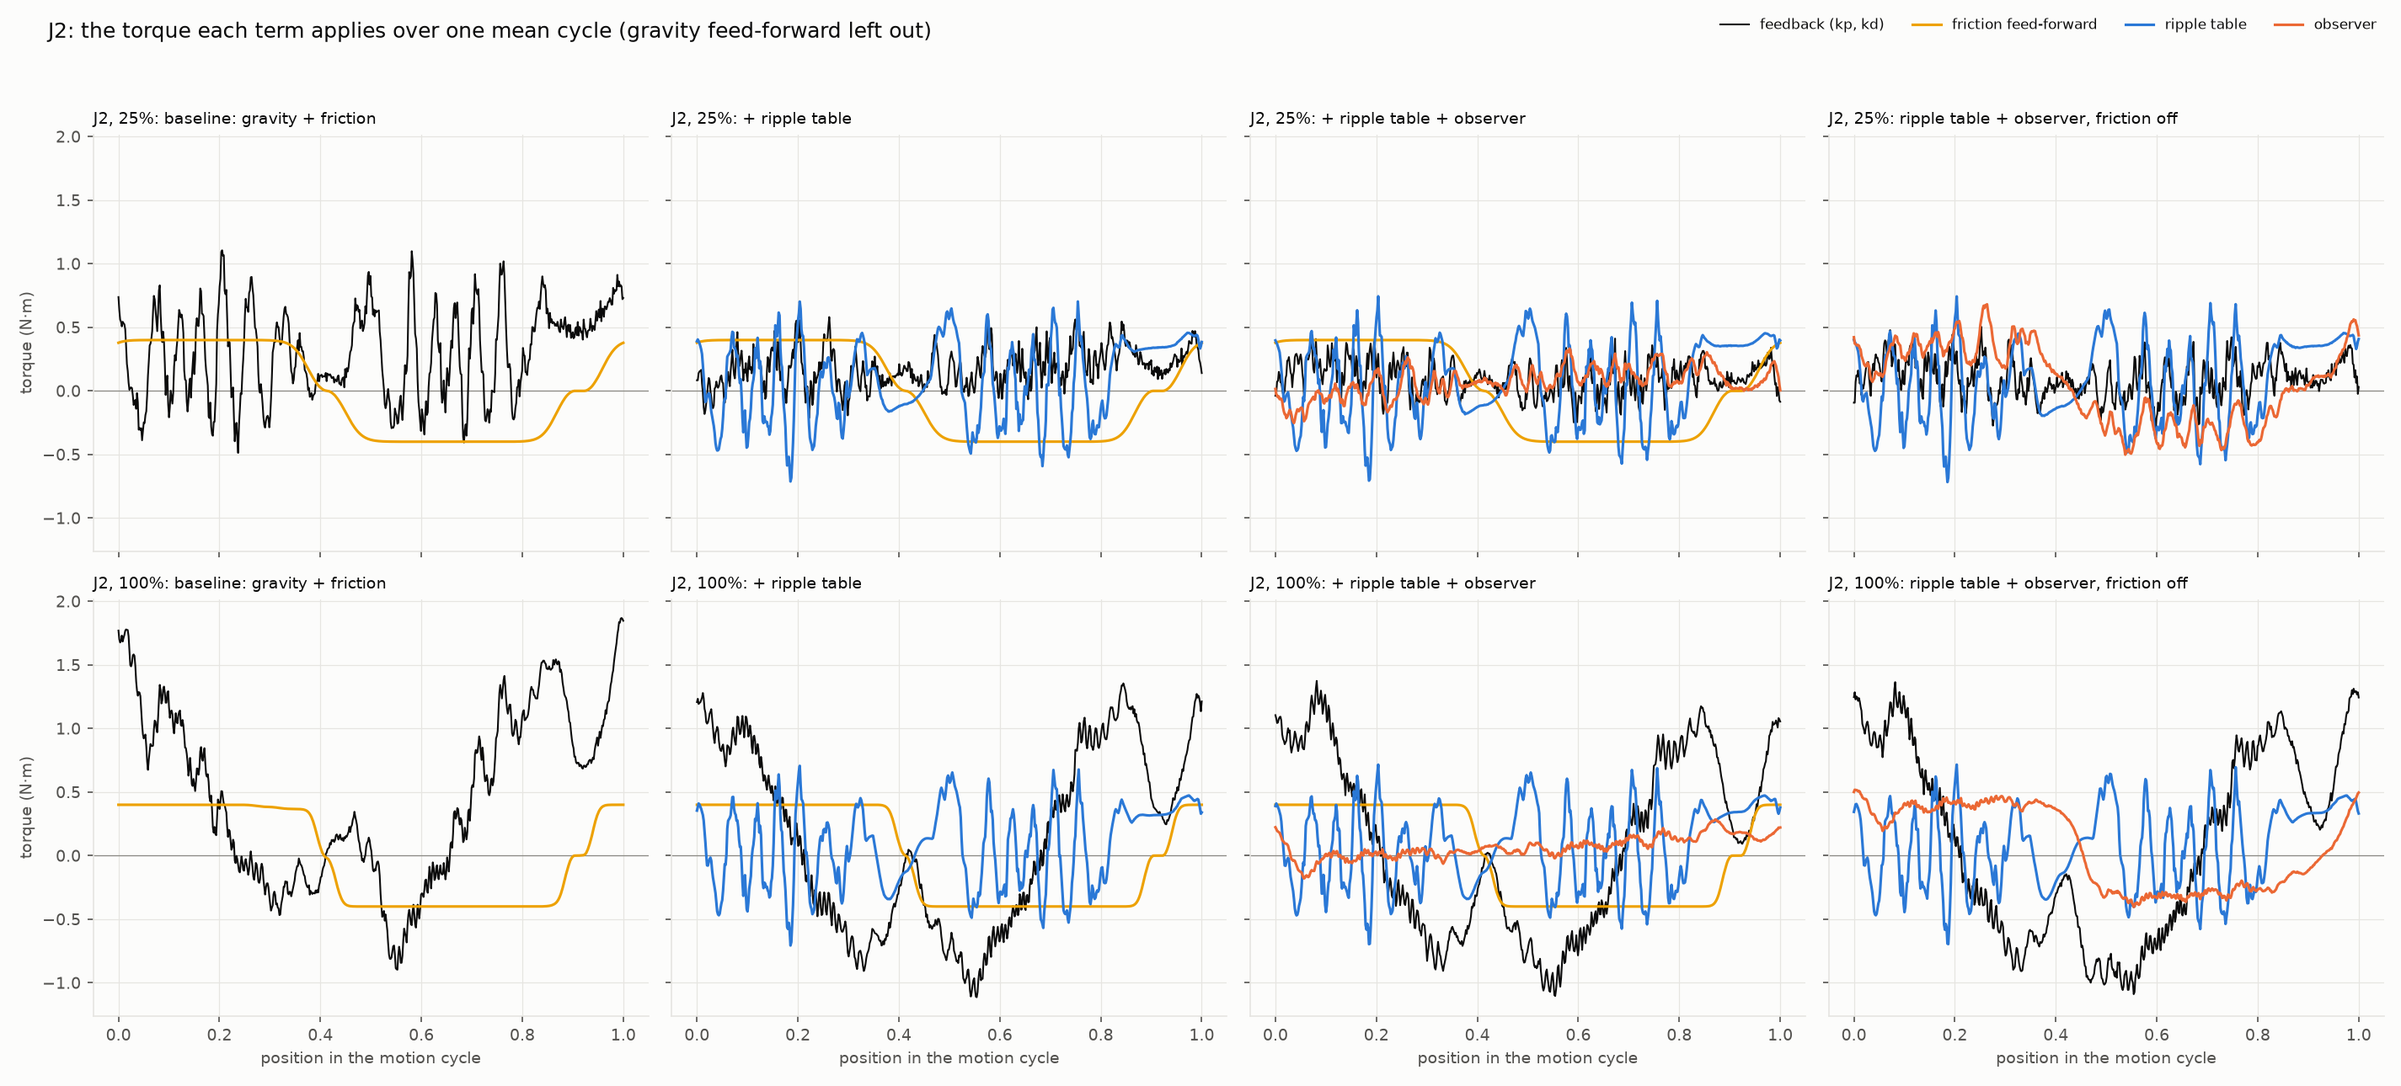
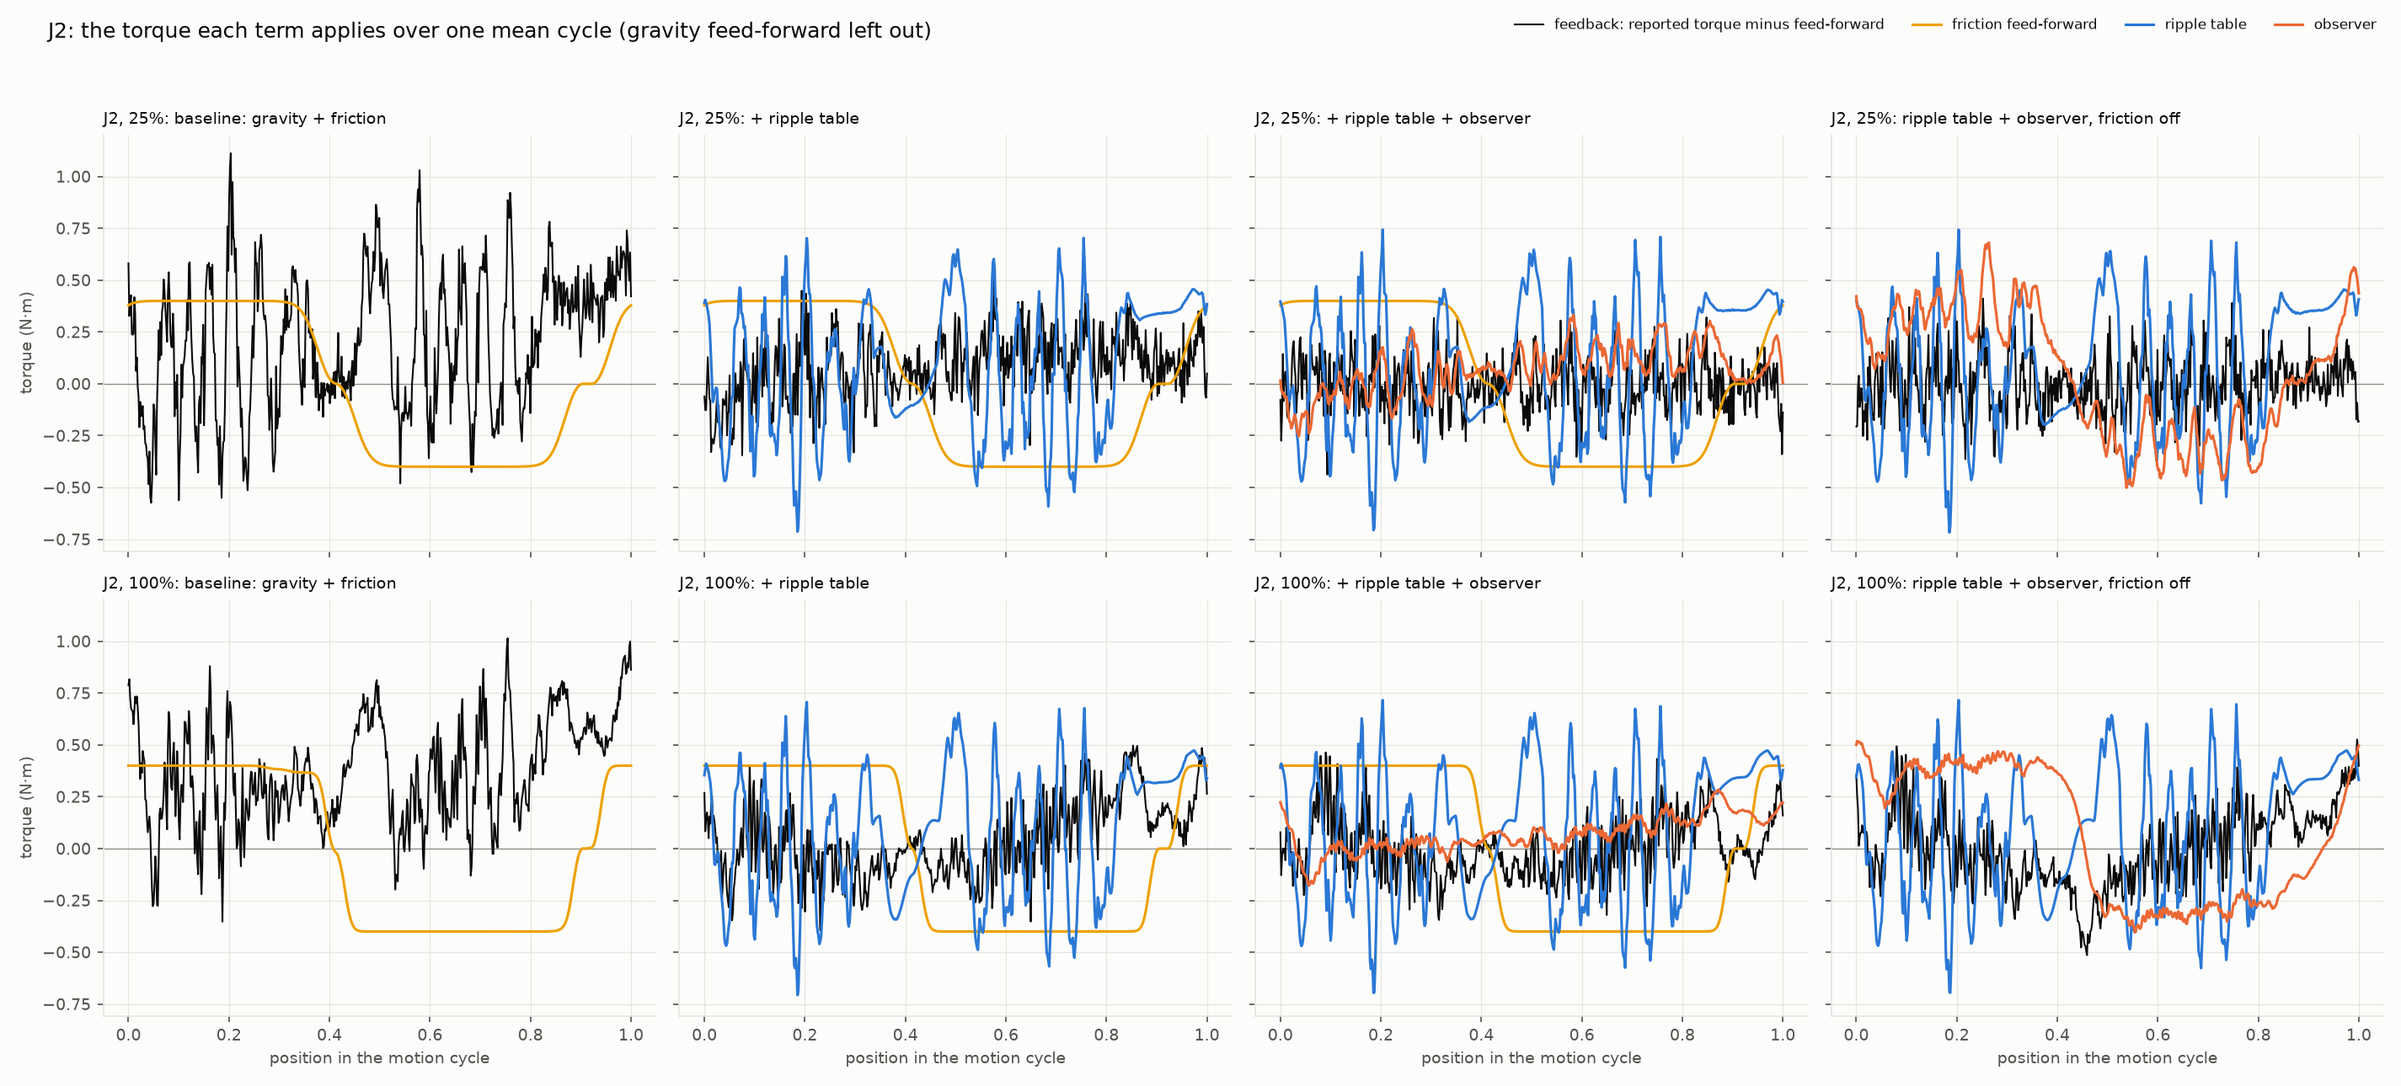
Analysis: the error at speed is mostly a timing offset; inertia finding withdrawn
At 100 % speed the recorded error is a straight line against the commanded velocity:
the position trails the command by 3.5 to 4.5 ms on J3 and 2.5 to 3.5 ms on J2, which
explains 77 to 95 % of its variance. The motor's reported torque has no matching
velocity-proportional part, and the controller records each tick's new setpoint beside
a position read earlier in the tick, so most of this is the recording's timing and not
the joint lagging.

- scope_analysis.py: the offset per recording (best_delay), the error against the
  command shifted by one offset per joint, rt_delay.png, and std_aligned / rms_aligned /
  delay_ms in rt_summary.csv. The torque figures now draw the feedback from the motor's
  report instead of the host's tau_cmd, which evaluates the damping term on a velocity
  filtered at 30 ms.
- Write-up: with the offset removed the observer nearly halves the spread at 25 and
  50 % on both joints and is neutral on J3 at 100 %, so it is recommended on both. The
  earlier finding that the remaining error at 100 % was inertia (0.71 kg·m², armature
  near 0.46) is withdrawn: it came from tau_cmd; the motor's report gives 0.04 to 0.14.
  The offset does not follow how hard the feedback works.

diff --git a/analysis/scope_analysis.py b/analysis/scope_analysis.py
@@ -28,6 +28,8 @@ of the four configurations gf / gfr / gfro / gro per joint and speed:
   rt_ripple.png          the ripple against joint angle and its order spectrum at 25 % speed
   rt_cycles.png          the mean motion cycle of every configuration overlaid
   rt_torques_J*.png      what each feed-forward term and the feedback apply over one cycle
+  rt_delay.png           the error against commanded velocity, the time offset it implies, and
+                         the spread once the command is shifted by that offset
   rt_summary.csv         the numbers behind these figures
 
 Run with:  uv run --with scipy --with matplotlib python analysis/scope_analysis.py
@@ -606,7 +608,34 @@ def rt_metrics(r):
     lo, hi = rest & (qc < qc.min() + 0.01), rest & (qc > qc.max() - 0.01)
     out["dwell_low"], out["dwell_high"] = e[lo].mean(), e[hi].mean()
     out["report_offset"] = float(np.mean(r["tau_meas_Nm"] - r["tau_cmd_Nm"]))
+    out["delay_ms"], _ = best_delay(r)
     return out
+
+
+def best_delay(r, grid_ms=np.arange(0, 12.01, 0.25)):
+    """The time by which the measured position trails the command, and the error without it.
+
+    The command is shifted later in steps of 0.25 ms; the shift with the smallest error spread
+    is the offset. Returns (offset in ms, error in mrad against the shifted command)."""
+    t, q, qc = r["t"], r["q_rad"], r["q_cmd_rad"]
+    shifted = lambda ms: (q - np.interp(t - ms * 1e-3, t, qc)) * 1e3
+    ms = min(np.atleast_1d(grid_ms), key=lambda m: shifted(m).std())
+    return float(ms), shifted(ms)
+
+
+def align_to_joint_delay(sets, metrics):
+    """Per joint, take the median offset of its full-speed recordings (where the offset is
+    best determined) and add to every recording's metrics the error against the command
+    shifted by that one value. -> {joint: offset in ms}"""
+    common = {}
+    for joint, cells in sets.items():
+        fast = [metrics[id(r)]["delay_ms"] for (sp, _), recs in cells.items() if sp == max(RT_SPEEDS) for r in recs]
+        common[joint] = float(np.median(fast)) if fast else 0.0
+        for recs in cells.values():
+            for r in recs:
+                _, aligned = best_delay(r, grid_ms=[common[joint]])
+                metrics[id(r)].update(std_aligned=aligned.std(), rms_aligned=np.sqrt(np.mean(aligned ** 2)))
+    return common
 
 
 def rt_axis(ax, ylabel=None):
@@ -749,7 +778,7 @@ def fig_rt_cycles(sets):
 
 
 def fig_rt_torques(sets, joint):
-    """One mean cycle of what each feed-forward term and the feedback apply (gravity left out)."""
+    """One mean cycle of what each feed-forward term and the motor's feedback apply (gravity left out)."""
     cells = sets[joint]; cfgs = ["gf", "gfr", "gfro", "gro"]; speeds = [25, 100]
     terms = [("tau_f_Nm", "friction feed-forward", "#eda100"), ("tau_r_Nm", "ripple table", "#2a78d6"),
              ("tau_o_Nm", "observer", "#eb6834")]
@@ -762,19 +791,57 @@ def fig_rt_torques(sets, joint):
             if not recs:
                 ax.text(0.5, 0.5, "not recorded", transform=ax.transAxes, ha="center", color=MUTED); continue
             r = recs[0]
-            fb = r["tau_cmd_Nm"] - sum(r[k] for k in RT_FF)
-            grid, m = cycle_mean(r, fb); ax.plot(grid, m, color=INK, lw=1.0, label="feedback (kp, kd)")
+            # the motor's report, not tau_cmd_Nm: that is the host's evaluation of the MIT law with
+            # a stale position and a velocity filtered at 30 ms, and swings several times as much
+            fb = r["tau_meas_Nm"] - sum(r[k] for k in RT_FF)
+            grid, m = cycle_mean(r, fb); ax.plot(grid, m, color=INK, lw=1.0)
             for key, lab, color in terms:
                 if np.abs(r[key]).max() > 1e-6:
                     grid, m = cycle_mean(r, r[key]); ax.plot(grid, m, color=color, lw=1.5, label=lab)
             if col == 0: ax.set_ylabel("torque (N·m)")
             if row == len(speeds) - 1: ax.set_xlabel("position in the motion cycle")
-    handles = [plt.Line2D([], [], color=INK, lw=1.0, label="feedback (kp, kd)")] + \
+    handles = [plt.Line2D([], [], color=INK, lw=1.0, label="feedback: reported torque minus feed-forward")] + \
               [plt.Line2D([], [], color=c, lw=1.5, label=l) for _, l, c in terms]
     fig.legend(handles=handles, loc="upper right", ncol=4, fontsize=8, bbox_to_anchor=(0.995, 0.995))
     fig.suptitle(f"{joint}: the torque each term applies over one mean cycle (gravity feed-forward left out)", x=0.02, ha="left", fontsize=12)
     fig.tight_layout(rect=(0, 0, 1, 0.95))
     fig.savefig(os.path.join(OUT, f"rt_torques_{joint}.png"), dpi=150); plt.close(fig)
+
+
+def fig_rt_delay(sets, metrics, common):
+    """Is the error at speed a time offset? Error against commanded velocity at 100 %, the
+    offset per recording, and the spread once the command is shifted by it."""
+    joints = sorted(sets)
+    fig, axes = plt.subplots(len(joints), 3, figsize=(17, 4.6 * len(joints)), squeeze=False)
+    for row, joint in enumerate(joints):
+        cells = sets[joint]; ax = axes[row, 0]
+        for cfg in RT_CONFIGS:
+            for r in cells.get((100, cfg), []):
+                v, e = r["v"], r["err_rad"] * 1e3
+                edges = np.linspace(-r["v_max"], r["v_max"], 25); idx = np.digitize(v, edges)
+                vb = [v[idx == i].mean() for i in range(1, len(edges)) if (idx == i).sum() > 30]
+                eb = [e[idx == i].mean() for i in range(1, len(edges)) if (idx == i).sum() > 30]
+                ax.plot(vb, eb, "-o", color=RT_COLOR[cfg], ms=3, lw=1.3)
+        ax.axhline(0, color=MUTED, lw=0.6); ax.axvline(0, color=MUTED, lw=0.6)
+        ax.set_title(f"{joint}, 100% speed: mean error against commanded velocity", loc="left")
+        ax.set_ylabel("error (mrad)")
+        ax = axes[row, 1]
+        top = rt_points(ax, cells, metrics, "delay_ms")
+        ax.set_ylim(0, top * 1.22); rt_axis(ax, "ms")
+        ax.set_title(f"{joint}: time by which the position trails the command", loc="left")
+        ax = axes[row, 2]
+        top = rt_points(ax, cells, metrics, "std_aligned")
+        ax.set_ylim(0, top * 1.22); rt_axis(ax, "mrad")
+        ax.set_title(f"{joint}: spread with the command shifted by {common[joint]:.2f} ms", loc="left")
+    axes[-1, 0].set_xlabel("commanded velocity (rad/s)")
+    for ax in axes[-1, 1:]:
+        ax.set_xlabel("playback speed")
+    handles = [plt.Line2D([], [], marker="o", ls="", ms=7, color=RT_COLOR[c], label=RT_LABEL[c]) for c in RT_CONFIGS]
+    fig.legend(handles=handles, loc="upper right", ncol=4, fontsize=8, bbox_to_anchor=(0.995, 0.965))
+    fig.suptitle("The error at speed is mostly a time offset between the command and the measured position",
+                 x=0.02, ha="left", fontsize=12)
+    fig.tight_layout(rect=(0, 0, 1, 0.96))
+    fig.savefig(os.path.join(OUT, "rt_delay.png"), dpi=150); plt.close(fig)
 
 
 def compare_ripple_table():
@@ -784,14 +851,17 @@ def compare_ripple_table():
     if not sets:
         return
     metrics = {id(r): rt_metrics(r) for cells in sets.values() for recs in cells.values() for r in recs}
+    common = align_to_joint_delay(sets, metrics)
     fig_rt_error(sets, metrics); fig_rt_breakdown(sets, metrics); fig_rt_ripple(sets, metrics); fig_rt_cycles(sets)
+    fig_rt_delay(sets, metrics, common)
     for joint in sets:
         fig_rt_torques(sets, joint)
-    cols = ["rms", "mean", "median", "std", "dwell", "lag", "ripple", "line20", "dwell_low", "dwell_high", "report_offset"]
+    cols = ["rms", "mean", "median", "std", "dwell", "lag", "ripple", "line20", "dwell_low", "dwell_high",
+            "std_aligned", "rms_aligned", "delay_ms", "report_offset"]
     with open(os.path.join(OUT, "rt_summary.csv"), "w", newline="") as fh:
         w = csv.writer(fh)
         w.writerow(["joint", "speed_%", "config", "file", "named_speed_%", "v_max_rad_s", "strokes"] +
-                   [c + ("_Nm" if c == "report_offset" else "_mrad") for c in cols])
+                   [c if c == "delay_ms" else c + ("_Nm" if c == "report_offset" else "_mrad") for c in cols])
         for joint in sorted(sets):
             for sp in RT_SPEEDS:
                 for cfg in RT_CONFIGS:
@@ -801,6 +871,7 @@ def compare_ripple_table():
                                     len(r["strokes"])] + [f"{m[c]:.3f}" for c in cols])
     for note in notes:
         print("NOTE", note)
+    print("offset used per joint (ms):", common)
     print(open(os.path.join(OUT, "rt_summary.csv")).read())
 
 

diff --git a/docs/tracking_error_analysis.md b/docs/tracking_error_analysis.md
@@ -347,32 +347,99 @@ when the folder exists; `rt_summary.csv` has every number.
    spread about the mean improves at 25 % (J2 0.52 → 0.39, J3 0.48 → 0.40), is unchanged at
    50 % on J2, and gets worse on J3 at 50 and 100 % (0.64 → 0.72, 1.31 → 1.47). A 2 Hz
    estimate is about 80 ms behind; a full-speed stroke lasts 0.65 s, so the estimate is
-   out of date for a good part of each stroke.
+   out of date for a good part of each stroke. *Revised 2026-11-19, finding 8:* this
+   reading of the raw spread is misleading. With the timing offset of the recording
+   removed, the observer improves the spread at 25 and 50 % on both joints and on J2 at
+   100 %, and is neutral on J3 at 100 %.
 6. **Keep the friction feed-forward on.** With it off and the observer carrying the
    friction (`gro`) the result is the same as `gfro` at 25 % and worse with speed (spread
    on J3 at 100 %: 1.77 against 1.47; J2: 1.38 against 1.11). The torque figures show why:
    the feed-forward flips with the commanded velocity at once, the observer's estimate
    takes a tenth of a cycle and more to follow.
-7. **At full speed what is left is inertia, and neither new term can reach it.** In the
-   100 % recordings with the table, 98 % of the variance of the feedback torque is
-   explained by `J · commanded acceleration + b · velocity`: J = 0.71 kg·m² on J3 and
-   0.80 kg·m² on J2, b about 1.0 to 1.15 N·m·s/rad, 0.70 N·m RMS in all (the baselines
-   give the same: 0.71 and 0.74 kg·m², with the ripple still in the residual). The feedback
-   supplies that through the position error, which is the stroke lag of 1.3 to 1.6 mrad.
-   The inverse-dynamics feed-forward is off in all these recordings and `armature` is
-   still zero; against the URDF's 0.246 kg·m² for J3 the fit suggests an armature near
-   0.46 kg·m².
+7. ***Withdrawn 2026-11-19.*** This finding said that at full speed the feedback torque
+   was inertia, 0.71 kg·m² on J3 and 0.80 on J2, and suggested an armature near
+   0.46 kg·m². That fit used `tau_cmd_Nm`, which is not what the motor applied: it is the
+   host's own evaluation of the MIT law, with the position it read at the start of the
+   tick and a velocity low-passed at 30 ms (`free_drive.velocity_filter_time_constant`).
+   A damping gain of 20 on a velocity that is 30 ms late adds `kd · 0.03 · acceleration`,
+   0.6 kg·m² of apparent inertia, and the stale position adds an apparent viscous term.
+   Fitted to the motor's own report (`tau_meas_Nm`) the same recordings give 0.04 to
+   0.14 kg·m² and a viscous term near 0.1 N·m·s/rad, and the observer's estimate has no
+   acceleration-proportional part (0.03 kg·m²). There is no evidence here for a missing
+   armature.
+8. **At speed, most of the recorded error is a time offset, not a tracking error**
+   (2026-11-19). In every 100 % recording the error is a straight line against the
+   commanded velocity (left panels below): the measured position trails the command by
+   3.5 to 4.5 ms on J3 and 2.5 to 3.5 ms on J2, which explains 77 to 95 % of the error's
+   variance. The motor's reported torque has no matching velocity-proportional part
+   (about 0.1 N·m·s/rad, worth 0.6 ms), so most of the offset is not the joint lagging.
+   The controller records, each tick, the setpoint it has just computed beside the
+   position it read at the start of that tick, a position that predates the setpoint by a
+   tick (2 ms) and the bus latency; the motor has not yet received that setpoint. The
+   error column therefore contains about `−3 to 4 ms × velocity`: 2 mrad at J3's full
+   speed, 0.5 mrad at 25 %.
 
-**Which configuration.** The ripple table on, on both joints, at every speed. Friction
-feed-forward on. The observer on for J2 as it is; for J3 it only pays at slow playback
-until the torque-report offset is taken out.
+![rt_delay](../analysis/figures/rt_delay.png)
+
+   **Spread of the error in mrad with the command shifted by the joint's offset**
+   (3.88 ms on J3, 3.00 ms on J2, the median of each joint's full-speed recordings; raw
+   spread in brackets):
+
+   | joint, speed | baseline `gf` | `gfr` | `gfro` | `gro` |
+   |---|---|---|---|---|
+   | J2, 25 % | 1.30 (1.29) | 0.61 (0.52) | 0.33 (0.39) | 0.41 (0.46) |
+   | J2, 50 % | 1.15 (1.17) | 0.63 (0.57) | 0.35 (0.54) | 0.48 (0.66) |
+   | J2, 100 % | 0.87 (1.20) | 0.83 (1.14) | 0.55 (1.11) | 0.86 (1.38) |
+   | J3, 25 % | 1.24 (1.26) | 0.55 (0.48) | 0.26 (0.40) | 0.30 (0.44) |
+   | J3, 50 % | 1.06 (1.22) | 0.51 (0.64) | 0.29 (0.72) | 0.42 (0.81) |
+   | J3, 100 % | 0.73 (1.49) | 0.50 (1.31) | 0.51 (1.47) | 0.85 (1.77) |
+
+   * **The observer was being under-credited.** With the offset removed it nearly halves
+     the spread at 25 and 50 % on both joints (J3: 0.55 → 0.26 and 0.51 → 0.29) and on J2
+     at 100 % (0.83 → 0.55); on J3 at 100 % it is neutral (0.50 → 0.51). Its one remaining
+     cost is the constant −0.57 mrad bias of finding 4.
+   * **Why the raw numbers said the opposite.** The observer runs show the full offset at
+     every speed (3.5, 3.75, 4.0 ms on J3). The table-only runs show less at low speed
+     (0.75 ms at 25 %, 2.5 ms at 50 %): there the joint runs slightly ahead of where the
+     offset alone would put it, and that real lead cancels part of the recorded offset.
+     The observer removes the lead, the joint follows the command more faithfully, and
+     the raw error then shows the whole offset. A better-tracking joint looked worse.
+   * **The offset is best determined at 100 %** (R² 0.77 to 0.95) and poorly at 25 %
+     without the observer. The table above assumes one offset per joint at all speeds,
+     which is what a sampling and transport delay would be.
+   * **The torque figures now draw the motor's feedback.** They used to draw the host's
+     `tau_cmd_Nm` minus the feed-forward, which at J3's full speed swung ±1.2 N·m in step
+     with the acceleration, 3.4 N·m peak to peak in the baseline against 2.6 and 2.8 with
+     the table and the observer. That swing was the same size in RMS in all three (0.78,
+     0.76, 0.79 N·m) and three quarters of it was the host's damping term on its late
+     velocity. From the motor's report the feedback at full speed stays within about
+     ±0.5 N·m in every configuration, with no acceleration-shaped swing at all.
+   * **The offset does not follow the feedback effort.** The baseline's feedback is about
+     twice as busy as with the table (motor's report minus feed-forward, while moving, at
+     100 %: 0.25 against 0.16 N·m RMS on J3, 0.24 against 0.16 on J2), because without the
+     table the feedback is what answers the ripple. The offsets are 3.75 against 3.50 ms
+     and 2.75 against 2.50 ms, and the configuration with the least feedback torque, table
+     plus observer, has the longest (4.00 and 3.25 ms). A torque that oscillates along the
+     stroke gives an error that oscillates, which is spread; only a torque in step with
+     the velocity gives a lag, and that part of the motor's feedback is 0.05 to
+     0.17 N·m.
+   * **Friction off is still the worst at full speed** (0.85 on both joints), and it
+     trails by another 0.5 ms.
+
+**Which configuration** (revised 2026-11-19). The ripple table on, on both joints, at
+every speed. Friction feed-forward on. The observer on for both joints: it lowers the
+spread everywhere except J3 at 100 %, where it changes nothing, and its −0.57 mrad bias is
+the price until the torque-report offset is taken out.
 
 **Next.** (a) Take the motors' torque-report offset out of what the observer is given: a
 per-joint constant (−0.085 N·m on J3, −0.10 N·m on J2 here), measured as the mean of
 reported minus commanded torque. The −0.57 mrad bias should go, and `gfro` should then
-show its spread as its RMS. (b) Switch on the inertia feed-forward with an armature from
-the fit above and repeat the 100 % recordings; a viscous friction term of about
-1 N·m·s/rad is the second half of that. (c) One more table round at 25 % with the
+show its spread as its RMS. (b) Record the scope's error against the setpoint the motor
+was acting on, not the one just computed: keep the last two setpoints and pair the
+position with the one sent a tick or two earlier, or timestamp the feedback frames. Until
+then, compare recordings at speed by the shifted error in `rt_summary.csv`
+(`std_aligned`). The same goes for `tau_cmd_Nm`: use `tau_meas_Nm` for anything that
+depends on phase. (c) One more table round at 25 % with the
 observer off, to see whether the remaining third of the ripple line still moves into the
 table. (d) Repeat J2 at 100 % with `gf` and `gfr` back to back, to separate the table's
 share of the 1.8 mrad change in the mean from drift.
